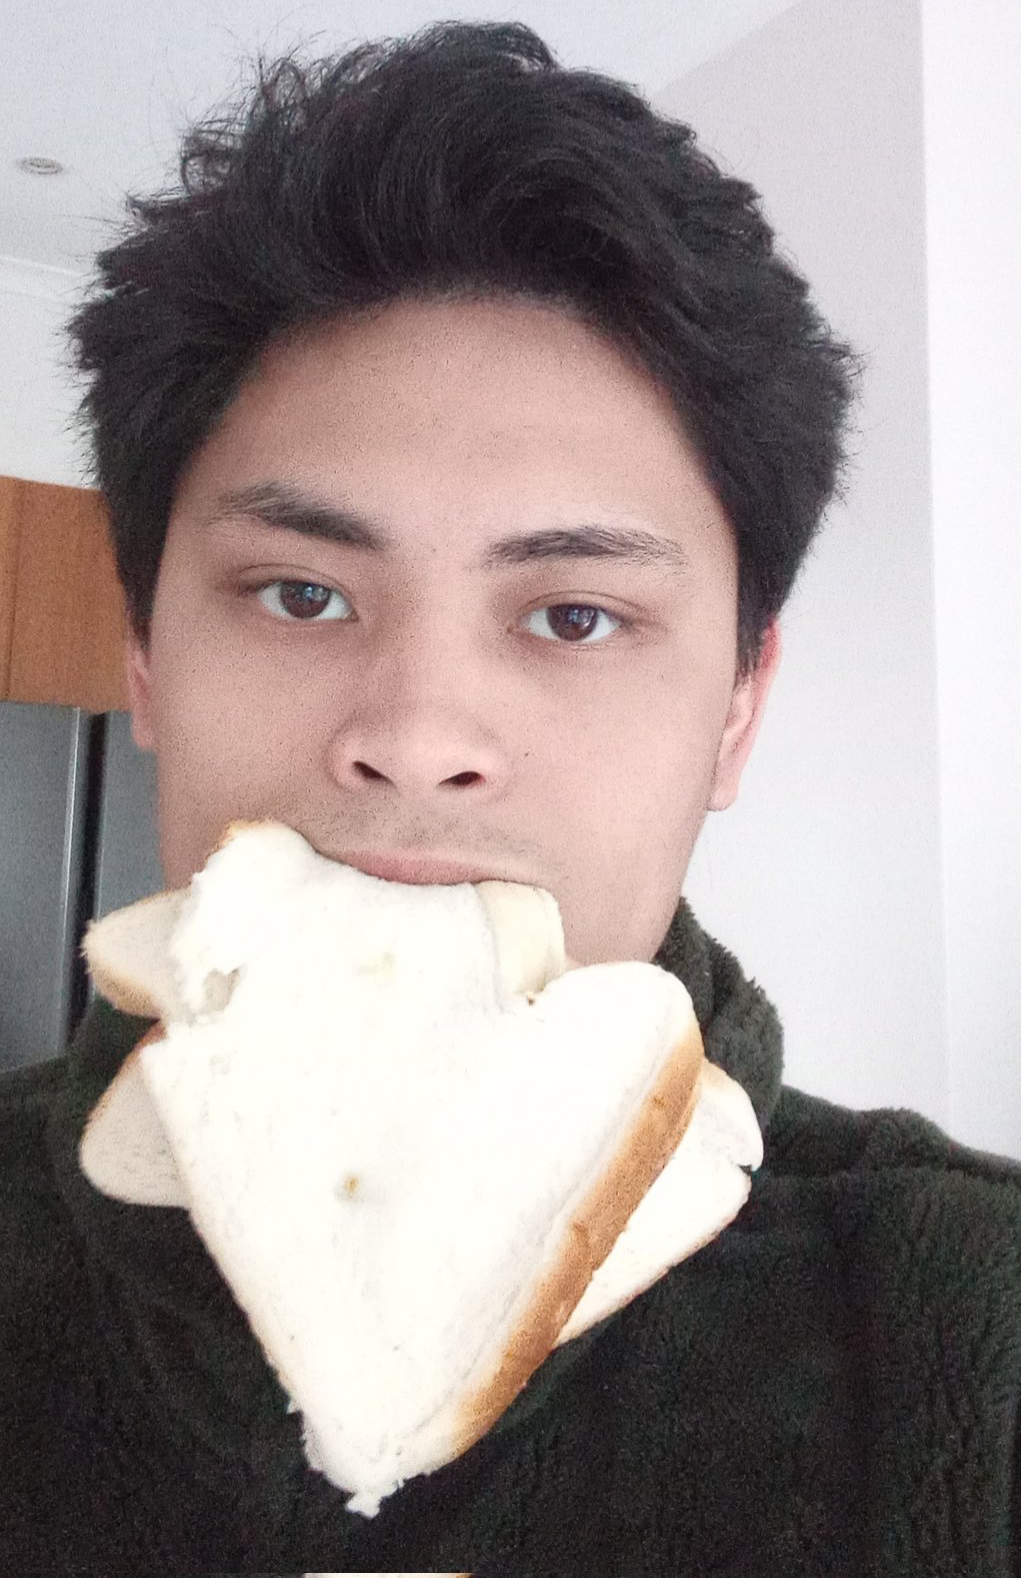
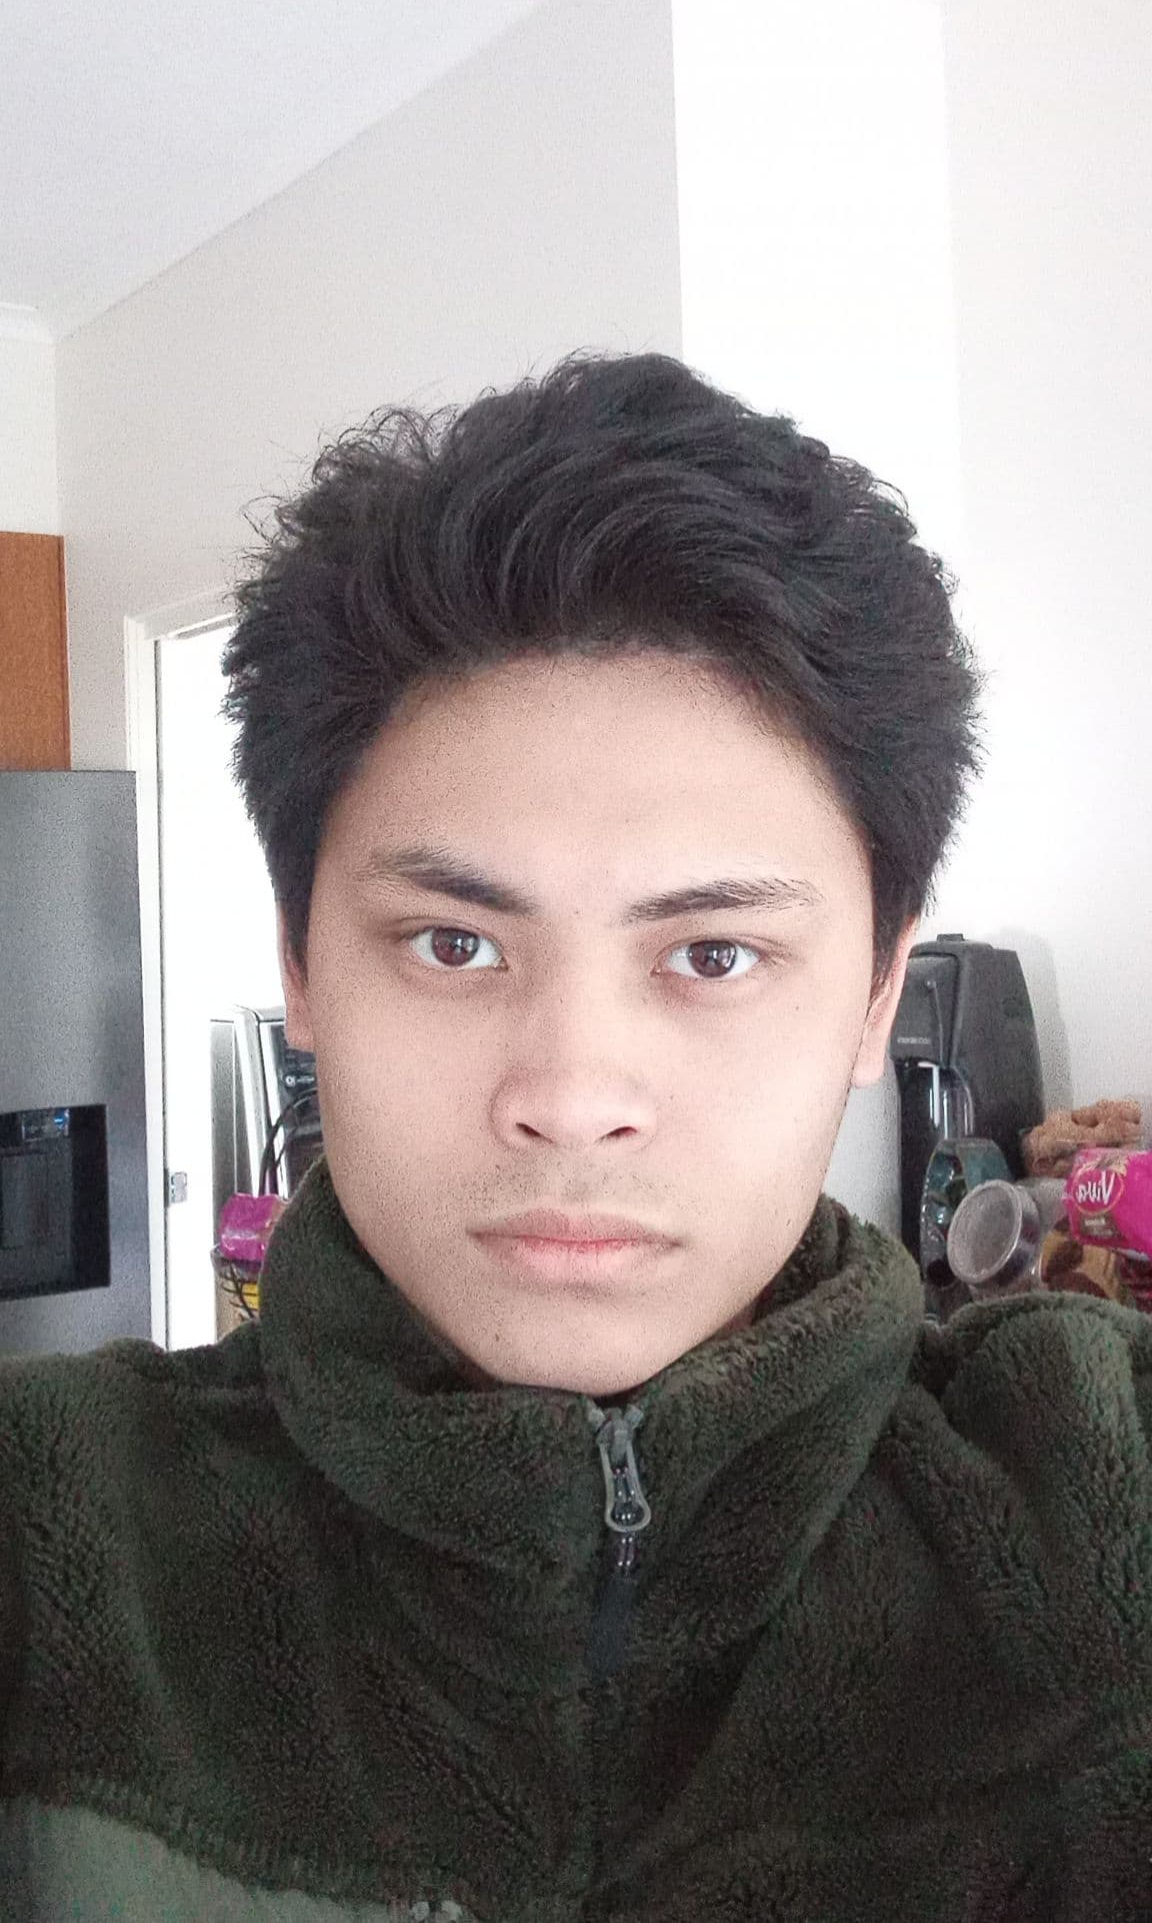
updated Seans photo. and links

diff --git a/Sean_De_Chavez.html b/Sean_De_Chavez.html
@@ -67,7 +67,7 @@
 </head>
 <!--group text-->
 <div  class = "main-text">
-    <img src="images/seanDechavez.jpg" align ="right" hspace="10" vspace = '10' width="30%" alt="Sean De Chavez"  style="width:200px;height:250px;">
+    <img src="images/seanDechavez.jpg" align ="right" hspace="10" vspace = '10' width="30%" alt="Sean De Chavez"  style="width:150px;height:250px;">
     <body class = "main-text">
       
             

diff --git a/meetings_recordings.html b/meetings_recordings.html
@@ -1,5 +1,4 @@
 <!DOCTYPE html>
-
 <title>Assessment 2, In control, Totally.</title>
 <meta name="viewport" content="width=device-width, initial-scale=1">
 <link rel = "stylesheet" href = "stylesheet.css">
